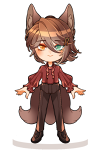
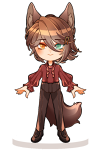
Add change tail function

diff --git a/scripts/clothesDB.js b/scripts/clothesDB.js
@@ -403,6 +403,7 @@ let selectedOutfit = {
 };
 
 let isMakeUpShowing = true;
+let currentTailType = "";
 
 /*----------------------------Outfits----------------------------------*/
 
@@ -410,7 +411,7 @@ const outfits = {
   noOutfit: {
     outfitHTML: `
     <img src="assets/base.png" class="layer0 doll-layer" id="base-doll">
-    <img src="assets/tail/tails3.png" class="layer-5 doll-layer">
+    <img src="assets/tail/tails3.png" class="layer-5 doll-layer" id="doll-tails">
     <img src="assets/stand.png" width="450" class="doll-stand" id="doll-stand">
     <img src="assets/hair/long.png" class="layer-6 doll-layer" id="long-hair">
     <img src="assets/under/leaf.png" class="layer1 doll-layer" id="leaf-under">
@@ -427,7 +428,7 @@ const outfits = {
   },
   advisorOutfit: {
     outfitHTML: `<img src="assets/base.png" class="layer0 doll-layer" id="base-doll">
-    <img src="assets/tail/tails3.png" class="layer-5 doll-layer">
+    <img src="assets/tail/tails3.png" class="layer-5 doll-layer" id="doll-tails">
     <img src="assets/stand.png" width="450" class="doll-stand" id="doll-stand">
     <img src="assets/under/leaf.png" class="layer1 doll-layer" id="leaf-under">
     <img src="assets/hair/ponytail.png" class="layer-2 doll-layer" id="ponytail">
@@ -464,7 +465,7 @@ const outfits = {
     outfitHTML: `<img src="assets/base.png" class="layer0 doll-layer" id="base-doll">
     <img src="assets/under/plain.png" class="layer1 doll-layer" id="plain-under">
     <img src="assets/hair/ponytail.png" class="layer-2 doll-layer" id="ponytail">
-    <img src="assets/tail/tails3.png" class="layer-5 doll-layer">
+    <img src="assets/tail/tails3.png" class="layer-5 doll-layer" id="doll-tails">
     <img src="assets/inner/plain_a.png" class="layer5 doll-layer" id="plain-inner">
     <img src="assets/inner/plain_b.png" class="layer-1 doll-layer" id="plain-inner-b">
     <img src="assets/pants/plain.png" class="layer2 doll-layer" id="plain-pants">
@@ -486,7 +487,7 @@ const outfits = {
   },
   secretaryOutfit: {
     outfitHTML: `<img src="assets/base.png" class="layer0 doll-layer" id="base-doll">
-    <img src="assets/tail/tails3.png" class="layer-5 doll-layer">
+    <img src="assets/tail/tails1.png" class="layer-5 doll-layer" id="doll-tails">
     <img src="assets/stand.png" width="450" class="doll-stand" id="doll-stand">
     <img src="assets/under/plain.png" class="layer1 doll-layer" id="plain-under">
     <img src="assets/hair/short-ponytail.png" class="layer-2 doll-layer" id="short-ponytail">
@@ -507,7 +508,7 @@ const outfits = {
   },
   dancerOutfit: {
     outfitHTML: `<img src="assets/base.png" class="layer0 doll-layer" id="base-doll">
-    <img src="assets/tail/tails3.png" class="layer-5 doll-layer">
+    <img src="assets/tail/tails3.png" class="layer-5 doll-layer" id="doll-tails">
     <img src="assets/stand.png" width="450" class="doll-stand" id="doll-stand">
     <img src="assets/hair/long.png" class="layer-6 doll-layer" id="long-hair">
     <img src="assets/under/white-under.png" class="layer1 doll-layer" id="white-under">

diff --git a/index.html b/index.html
@@ -40,7 +40,7 @@
           class="layer-2 doll-layer"
           id="ponytail"
         />
-        <img src="assets/tail/tails3.png" class="layer-5 doll-layer" />
+        <img src="assets/tail/tails3.png" class="layer-5 doll-layer" id="doll-tails"/>
         <img
           src="assets/inner/plain_a.png"
           class="layer5 doll-layer"
@@ -403,26 +403,29 @@
                 </label>
               </div>
               <div class="setting-row mb-1">
-                <div>Show Tails (Coming soon):</div>
+                <div>Show Tails</div>
                 <div class="tail-btn-row">
                   <button
                     type="button"
                     class="btn btn-primary tail-button"
-                    disabled
+                    data-item="tails1"
+                    onclick="setTails(this.getAttribute('data-item'));"
                   >
                     1 Tail
                   </button>
                   <button
                     type="button"
                     class="btn btn-primary tail-button"
-                    disabled
+                    data-item="tails3"
+                    onclick="setTails(this.getAttribute('data-item'));"
                   >
                     3 Tails
                   </button>
                   <button
                     type="button"
                     class="btn btn-primary tail-button"
-                    disabled
+                    data-item="tails9"
+                    onclick="setTails(this.getAttribute('data-item'));"
                   >
                     9 Tails
                   </button>

diff --git a/scripts/main.js b/scripts/main.js
@@ -170,7 +170,7 @@ function ChangeOutfit(newOutfit) {
     selectedItemBtn.classList.add("selected-item");
   });
 
-  showMakeUp(isMakeUpShowing)
+  showMakeUp(isMakeUpShowing);
 }
 
 function getOutfitItemList(newOutfit) {
@@ -203,7 +203,6 @@ function getOutfitItemList(newOutfit) {
 
 function showMakeUp(checked) {
   if (checked) {
-    console.log("make up is showing");
     isMakeUpShowing = true;
     $("#base-doll").attr("src", "assets/base.png");
   } else {
@@ -257,5 +256,29 @@ function playBGM(checkbox) {
     bgmAudio.play();
   } else {
     bgmAudio.pause();
+  }
+}
+
+function setTails(selectedTailType) {
+  console.log(selectedTailType)
+  switch (selectedTailType) {
+    case "tails3":
+      console.log("3 tails are selected")
+      $("#doll-tails").attr("src", "assets/tail/tails3.png");
+      currentTailType = "tails3";
+      break;
+    case "tails1":
+      console.log("1 tails is selected")
+      $("#doll-tails").attr("src", "assets/tail/tails1.png");
+      currentTailType = "tails1";
+      break;
+    case "tails9":
+      console.log("9 tails are selected")
+      $("#doll-tails").attr("src", "assets/tail/tails9.png");
+      currentTailType = "tails9";
+      break;
+    default:
+      $("#doll-tails").attr("src", "assets/tail/tails3.png");
+      currentTailType = "tails3";
   }
 }

diff --git a/test.html b/test.html
@@ -29,7 +29,7 @@
         <img src="assets/neck/collar.png" height="700" class="layer4" />
         <img src="assets/cape/bottom_cape_a.png" height="700" class="layer6" />
         <img src="assets/cape/bottom_cape_b.png" height="700" class="layer-3" />
-        <img src="assets/tail/tails3.png" height="700" class="layer-5" />
+        <img src="assets/tail/tails3.png" height="700" class="layer-5" id="doll-tails"/>
         <img src="assets/shoes/advisor_boots.png" height="700" class="layer3" />
         <img
           src="assets/belt/green_medal_belt.png"

diff --git a/styles/main.css b/styles/main.css
@@ -212,14 +212,14 @@ body {
 
 .tail-button {
   width: 32%;
-  background-color: #6e4636;
+  background-color: #5b352b;
   border: none;
   box-shadow: none;
   margin: 0px 5px 5px 0px;
 }
 
 .tail-button:hover {
-  background-color: #5c3628;
+  background-color: #482820;
 }
 
 .tail-button:disabled {
